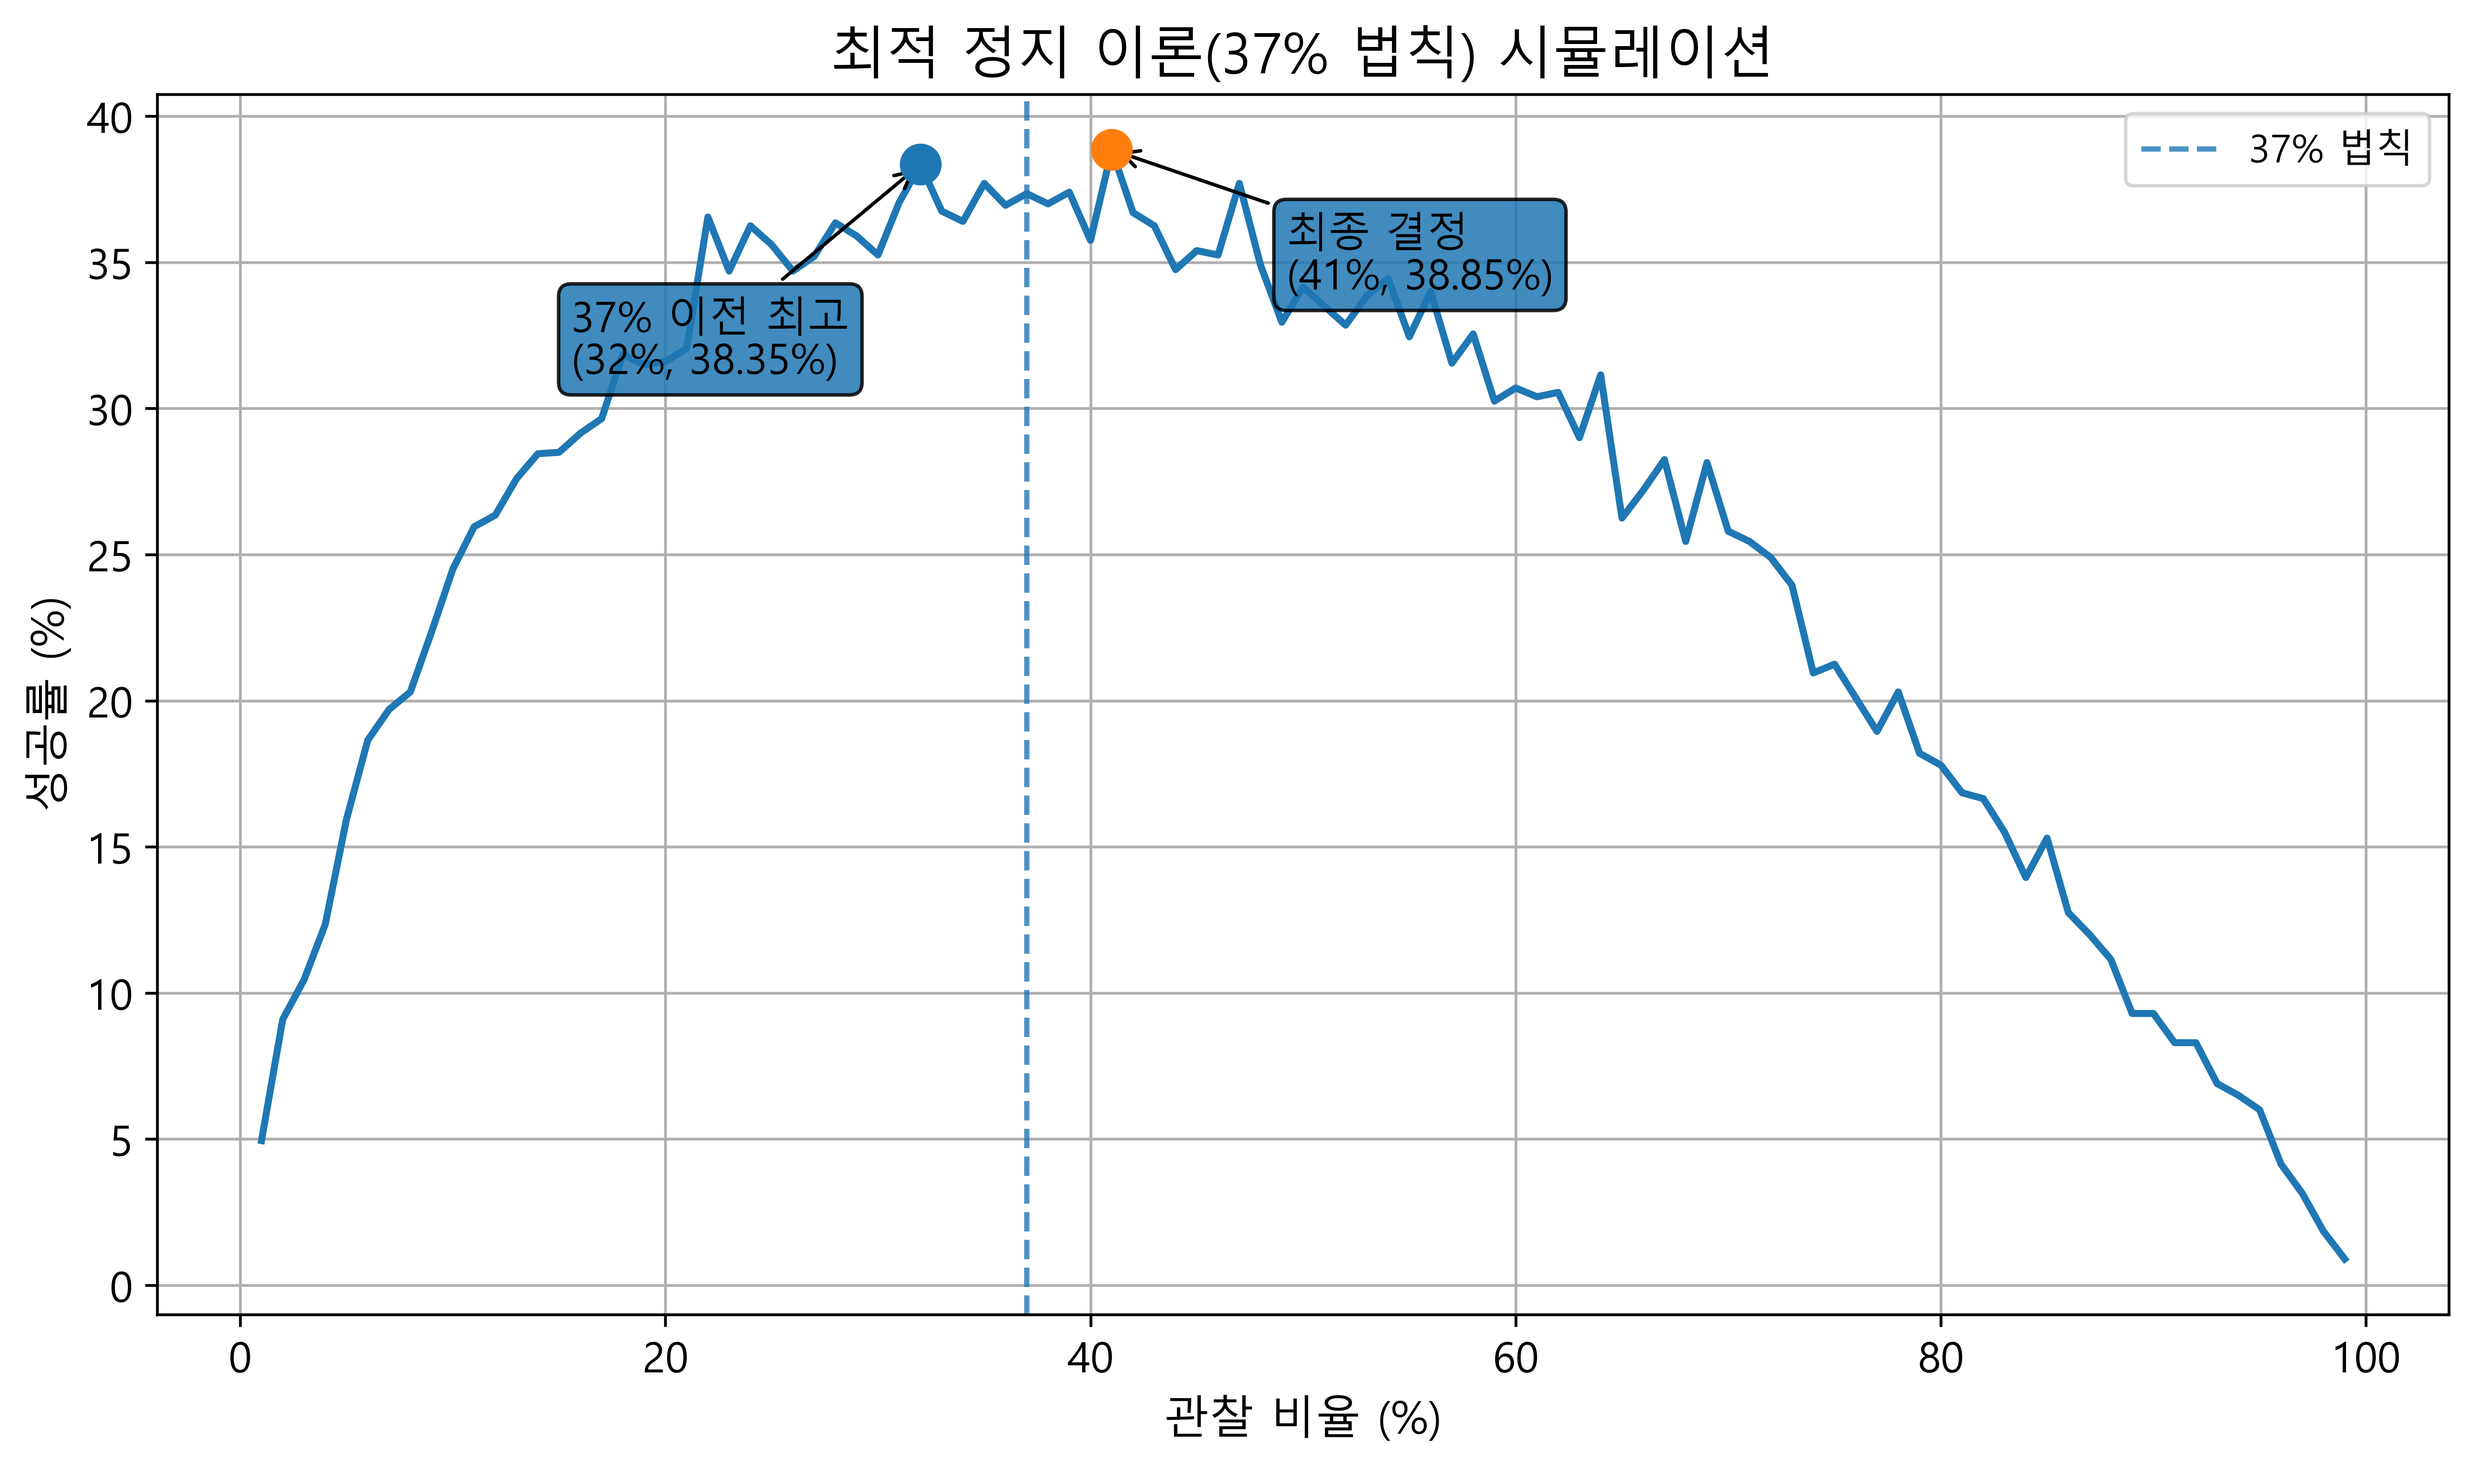
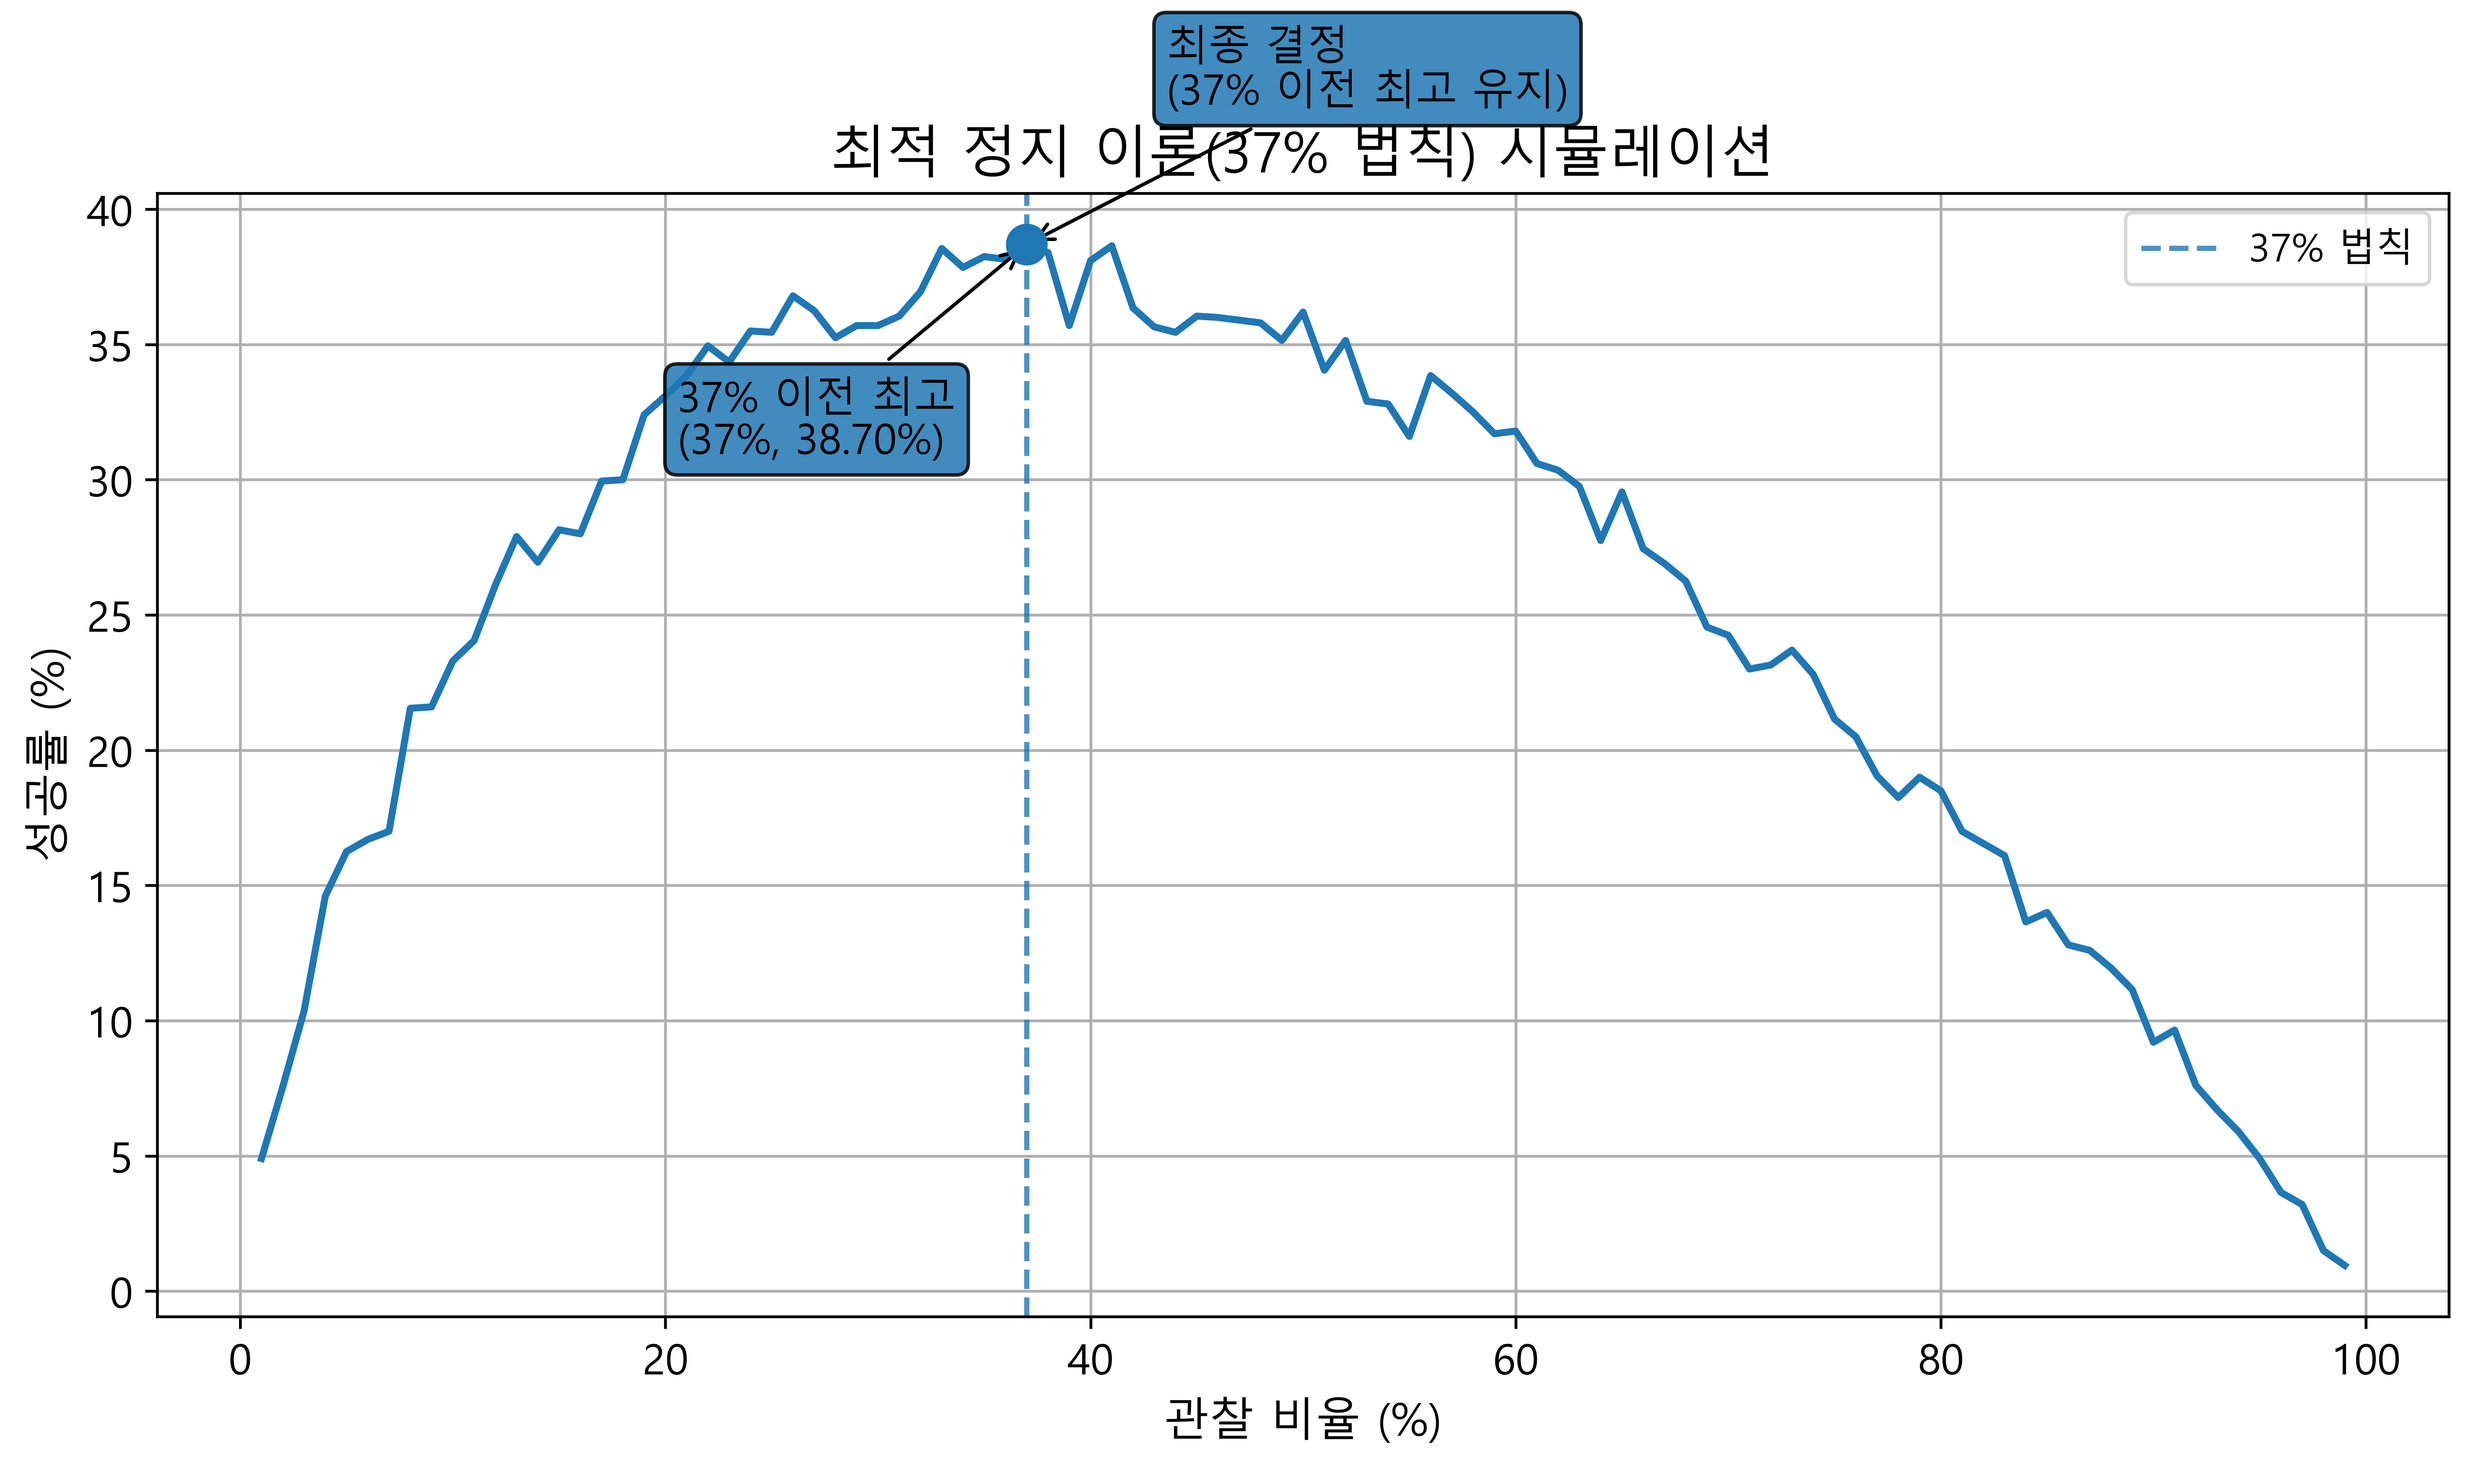
pandas 제거

diff --git a/main.py b/main.py
@@ -1,7 +1,6 @@
 import random
 import csv
 
-import pandas as pd
 import matplotlib.pyplot as plt
 import matplotlib.font_manager as fm
 
@@ -39,6 +38,9 @@ def run_trial(n=100, ratio=0.37):
 
     observe_count = int(n * ratio)
 
+    if observe_count < 1:
+        observe_count = 1
+
     best_seen = max(candidates[:observe_count])
 
     selected = None
@@ -61,7 +63,10 @@ def simulate(n=100, ratio=0.37, trials=2000):
 
     for _ in range(trials):
 
-        if run_trial(n, ratio):
+        if run_trial(
+            n=n,
+            ratio=ratio
+        ):
             success_count += 1
 
     return success_count / trials
@@ -77,11 +82,34 @@ TRIALS = 2000
 
 results = []
 
+
+# ======================
+# 시작 안내
+# ======================
+
 print("=" * 50)
 print("최적 정지 이론 시뮬레이션")
+print("잠시만 기다려 주십시오...")
+print("초기화 중...")
 print("=" * 50)
+print()
 
-for ratio in RATIOS:
+
+# ======================
+# 시뮬레이션 실행
+# ======================
+
+total_count = len(RATIOS)
+
+for current, ratio in enumerate(
+    RATIOS,
+    start=1
+):
+
+    print(
+        f"[{current}/{total_count}] "
+        f"관찰 비율 {ratio*100:.0f}% 계산 중..."
+    )
 
     success_rate = simulate(
         n=100,
@@ -94,8 +122,7 @@ for ratio in RATIOS:
     )
 
     print(
-        f"관찰 비율 {ratio*100:.0f}% "
-        f"→ 성공률 {success_rate*100:.2f}%"
+        f"    → 성공률 {success_rate*100:.2f}%"
     )
 
 
@@ -113,68 +140,72 @@ with open(
     writer = csv.writer(f)
 
     writer.writerow(
-        ["ratio", "success_rate"]
+        [
+            "ratio",
+            "success_rate"
+        ]
     )
 
     writer.writerows(results)
 
-print("\nresults.csv 저장 완료")
+print()
+print("results.csv 저장 완료")
 
 
 # ======================
-# 데이터프레임
+# 그래프용 리스트 생성
 # ======================
 
-df = pd.DataFrame(
-    results,
-    columns=[
-        "ratio",
-        "success_rate"
-    ]
-)
+ratio_percent = [
+    ratio * 100
+    for ratio, success in results
+]
 
-df["ratio_percent"] = df["ratio"] * 100
-df["success_percent"] = df["success_rate"] * 100
+success_percent = [
+    success * 100
+    for ratio, success in results
+]
 
 
+# ======================
+# 결과 분석
+# ======================
 # ======================
 # 37% 이전 최고
 # ======================
 
-before_df = df[df["ratio"] <= 0.37]
+before_candidates = [
+    item
+    for item in results
+    if item[0] <= 0.37
+]
 
-before_idx = before_df["success_rate"].idxmax()
-
-before_ratio = df.loc[before_idx, "ratio"]
-before_success = df.loc[before_idx, "success_rate"]
+before_ratio, before_success = max(
+    before_candidates,
+    key=lambda x: x[1]
+)
 
 
 # ======================
 # 최종 결정
 # ======================
 
-after_df = df[df["ratio"] > 0.37]
+after_candidates = [
+    item
+    for item in results
+    if item[0] > 0.37
+]
 
-final_idx = None
+final_ratio = before_ratio
+final_success = before_success
 
-for idx in after_df.index:
+for ratio, success in after_candidates:
 
-    if df.loc[idx, "success_rate"] > before_success:
-        final_idx = idx
+    if success > before_success:
+
+        final_ratio = ratio
+        final_success = success
         break
-
-# 끝까지 못 넘으면
-# 37% 이전 최고를 그대로 최종 결정
-
-if final_idx is None:
-
-    final_ratio = before_ratio
-    final_success = before_success
-
-else:
-
-    final_ratio = df.loc[final_idx, "ratio"]
-    final_success = df.loc[final_idx, "success_rate"]
 
 
 # ======================
@@ -189,12 +220,13 @@ plt.rcParams["legend.fontsize"] = 11
 plt.figure(figsize=(10, 6))
 
 plt.plot(
-    df["ratio_percent"],
-    df["success_percent"],
+    ratio_percent,
+    success_percent,
     linewidth=2
 )
 
 # 37% 기준선
+
 plt.axvline(
     x=37,
     linestyle="--",
@@ -297,7 +329,7 @@ plt.title(
     "최적 정지 이론(37% 법칙) 시뮬레이션"
 )
 
-# 제목과 주석이 안 겹치게 위쪽 여백 확보
+# 제목과 주석 여백 확보
 plt.subplots_adjust(top=0.88)
 
 plt.grid(True)
@@ -314,7 +346,8 @@ plt.savefig(
 
 plt.show()
 
-print("\n그래프 저장 완료")
+print()
+print("그래프 저장 완료")
 
 print(
     f"\n37% 이전 최고 : "
